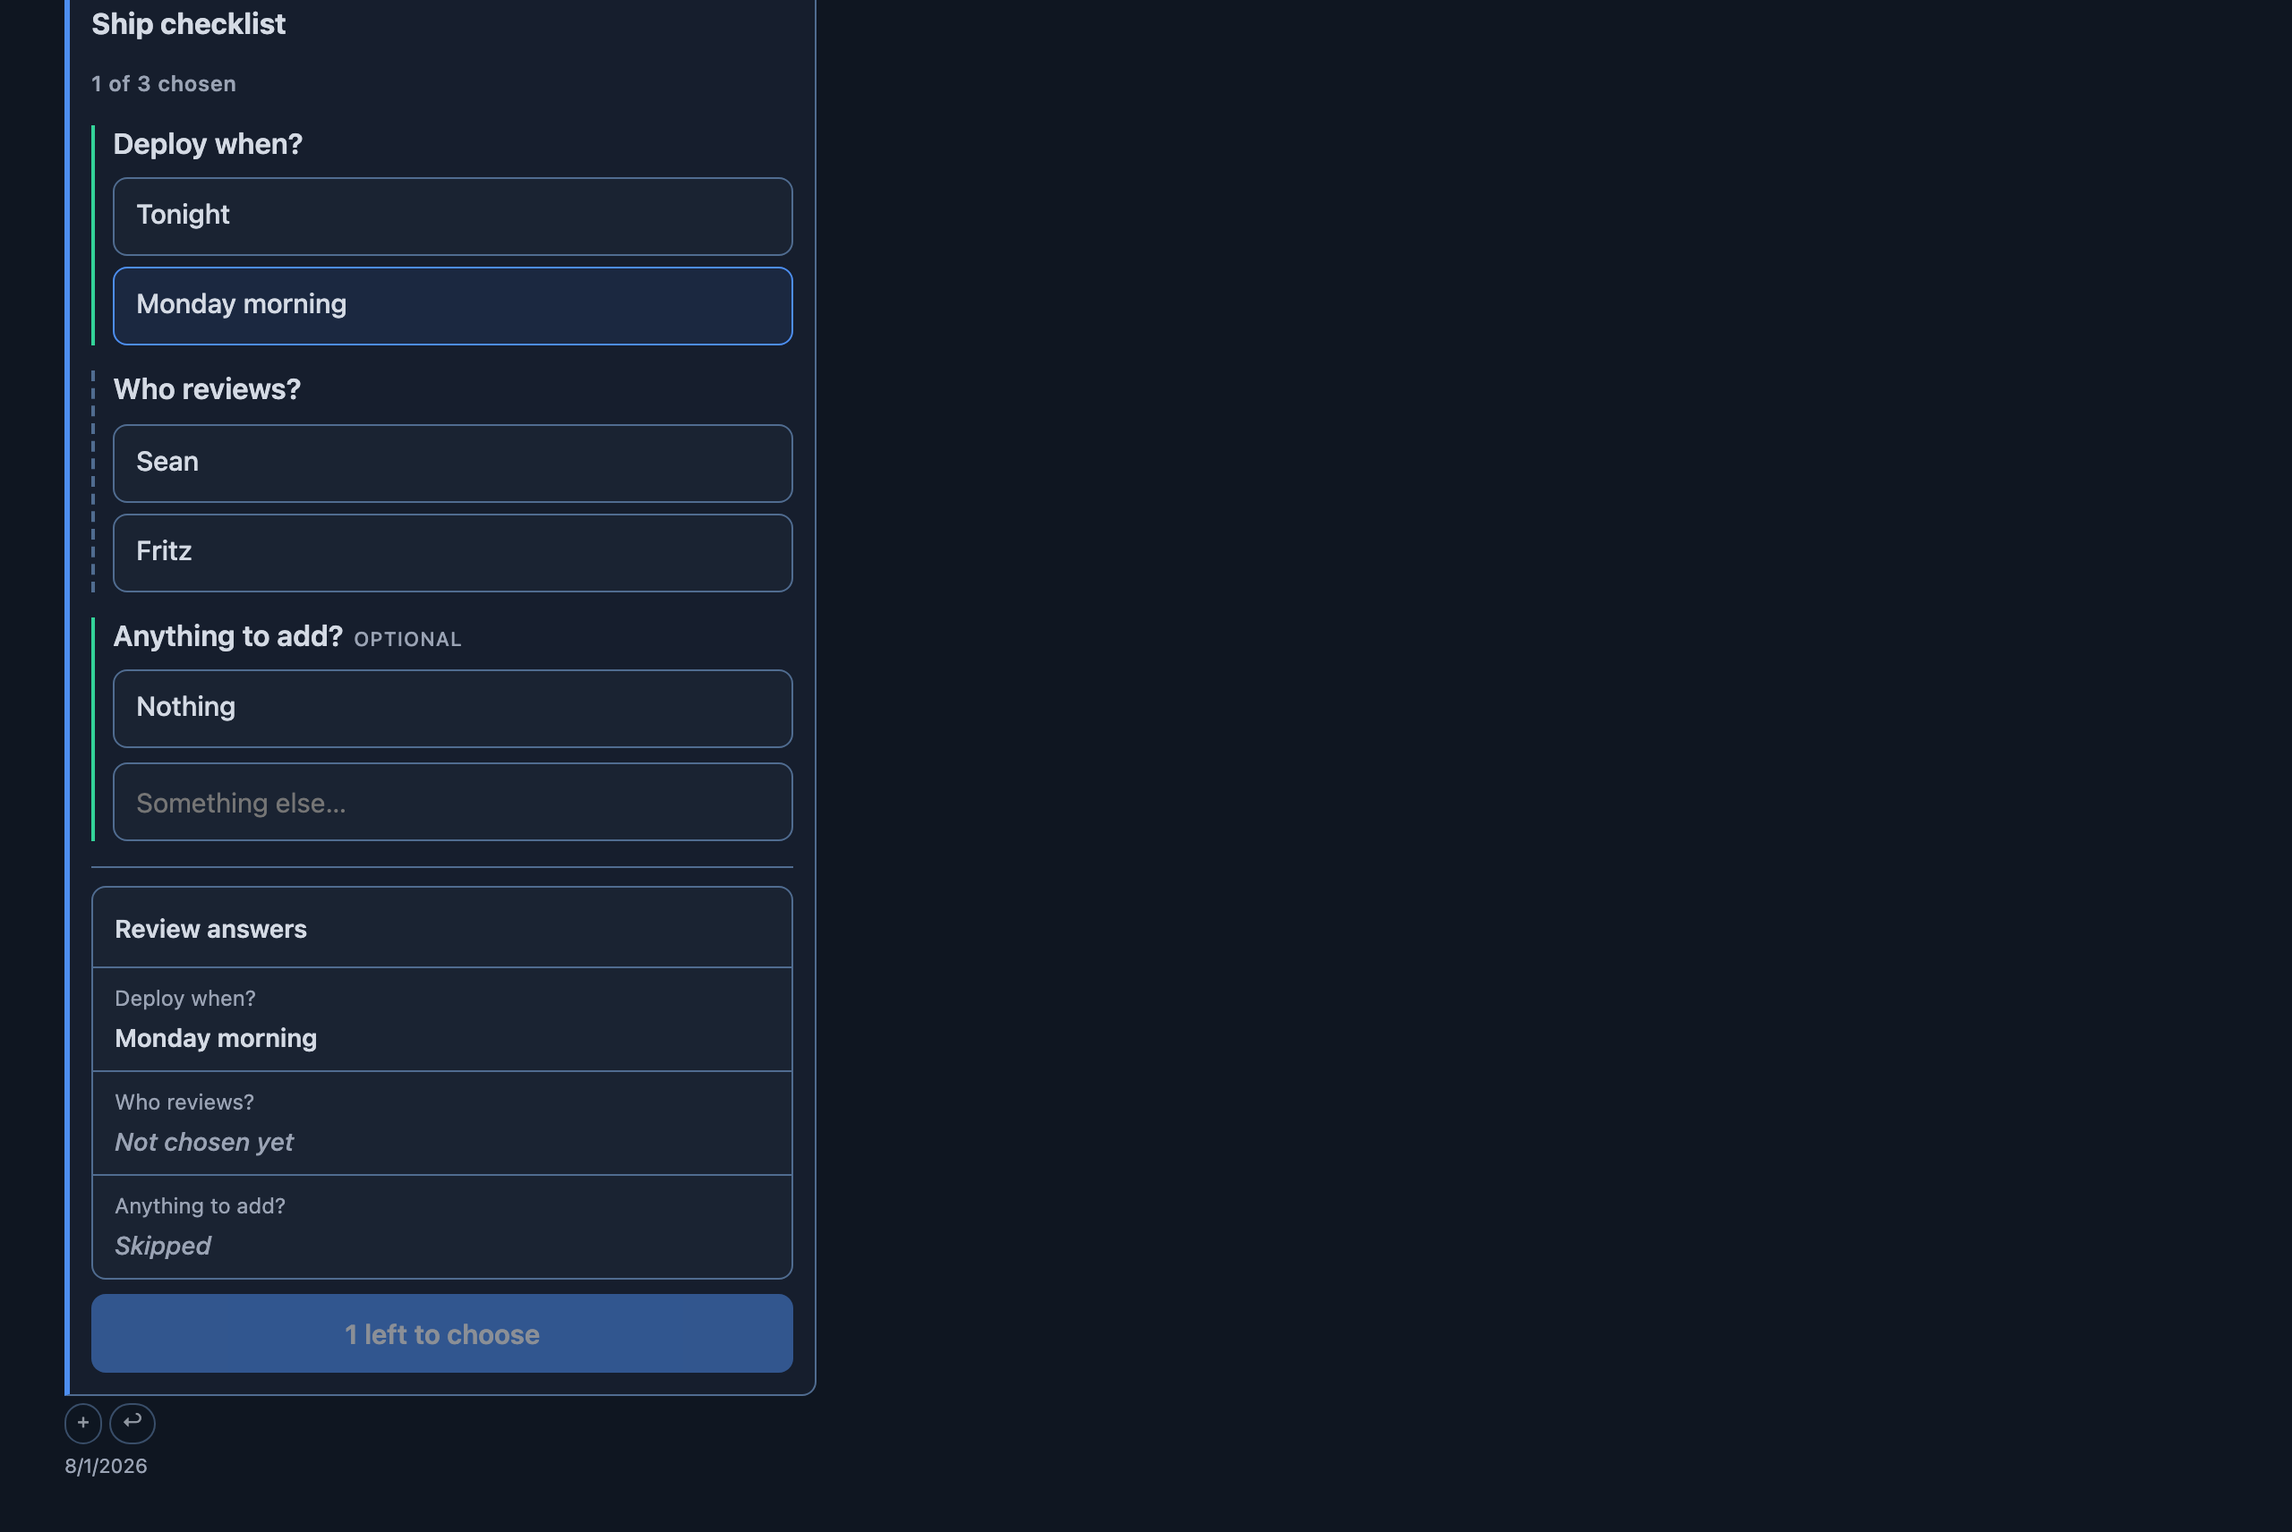
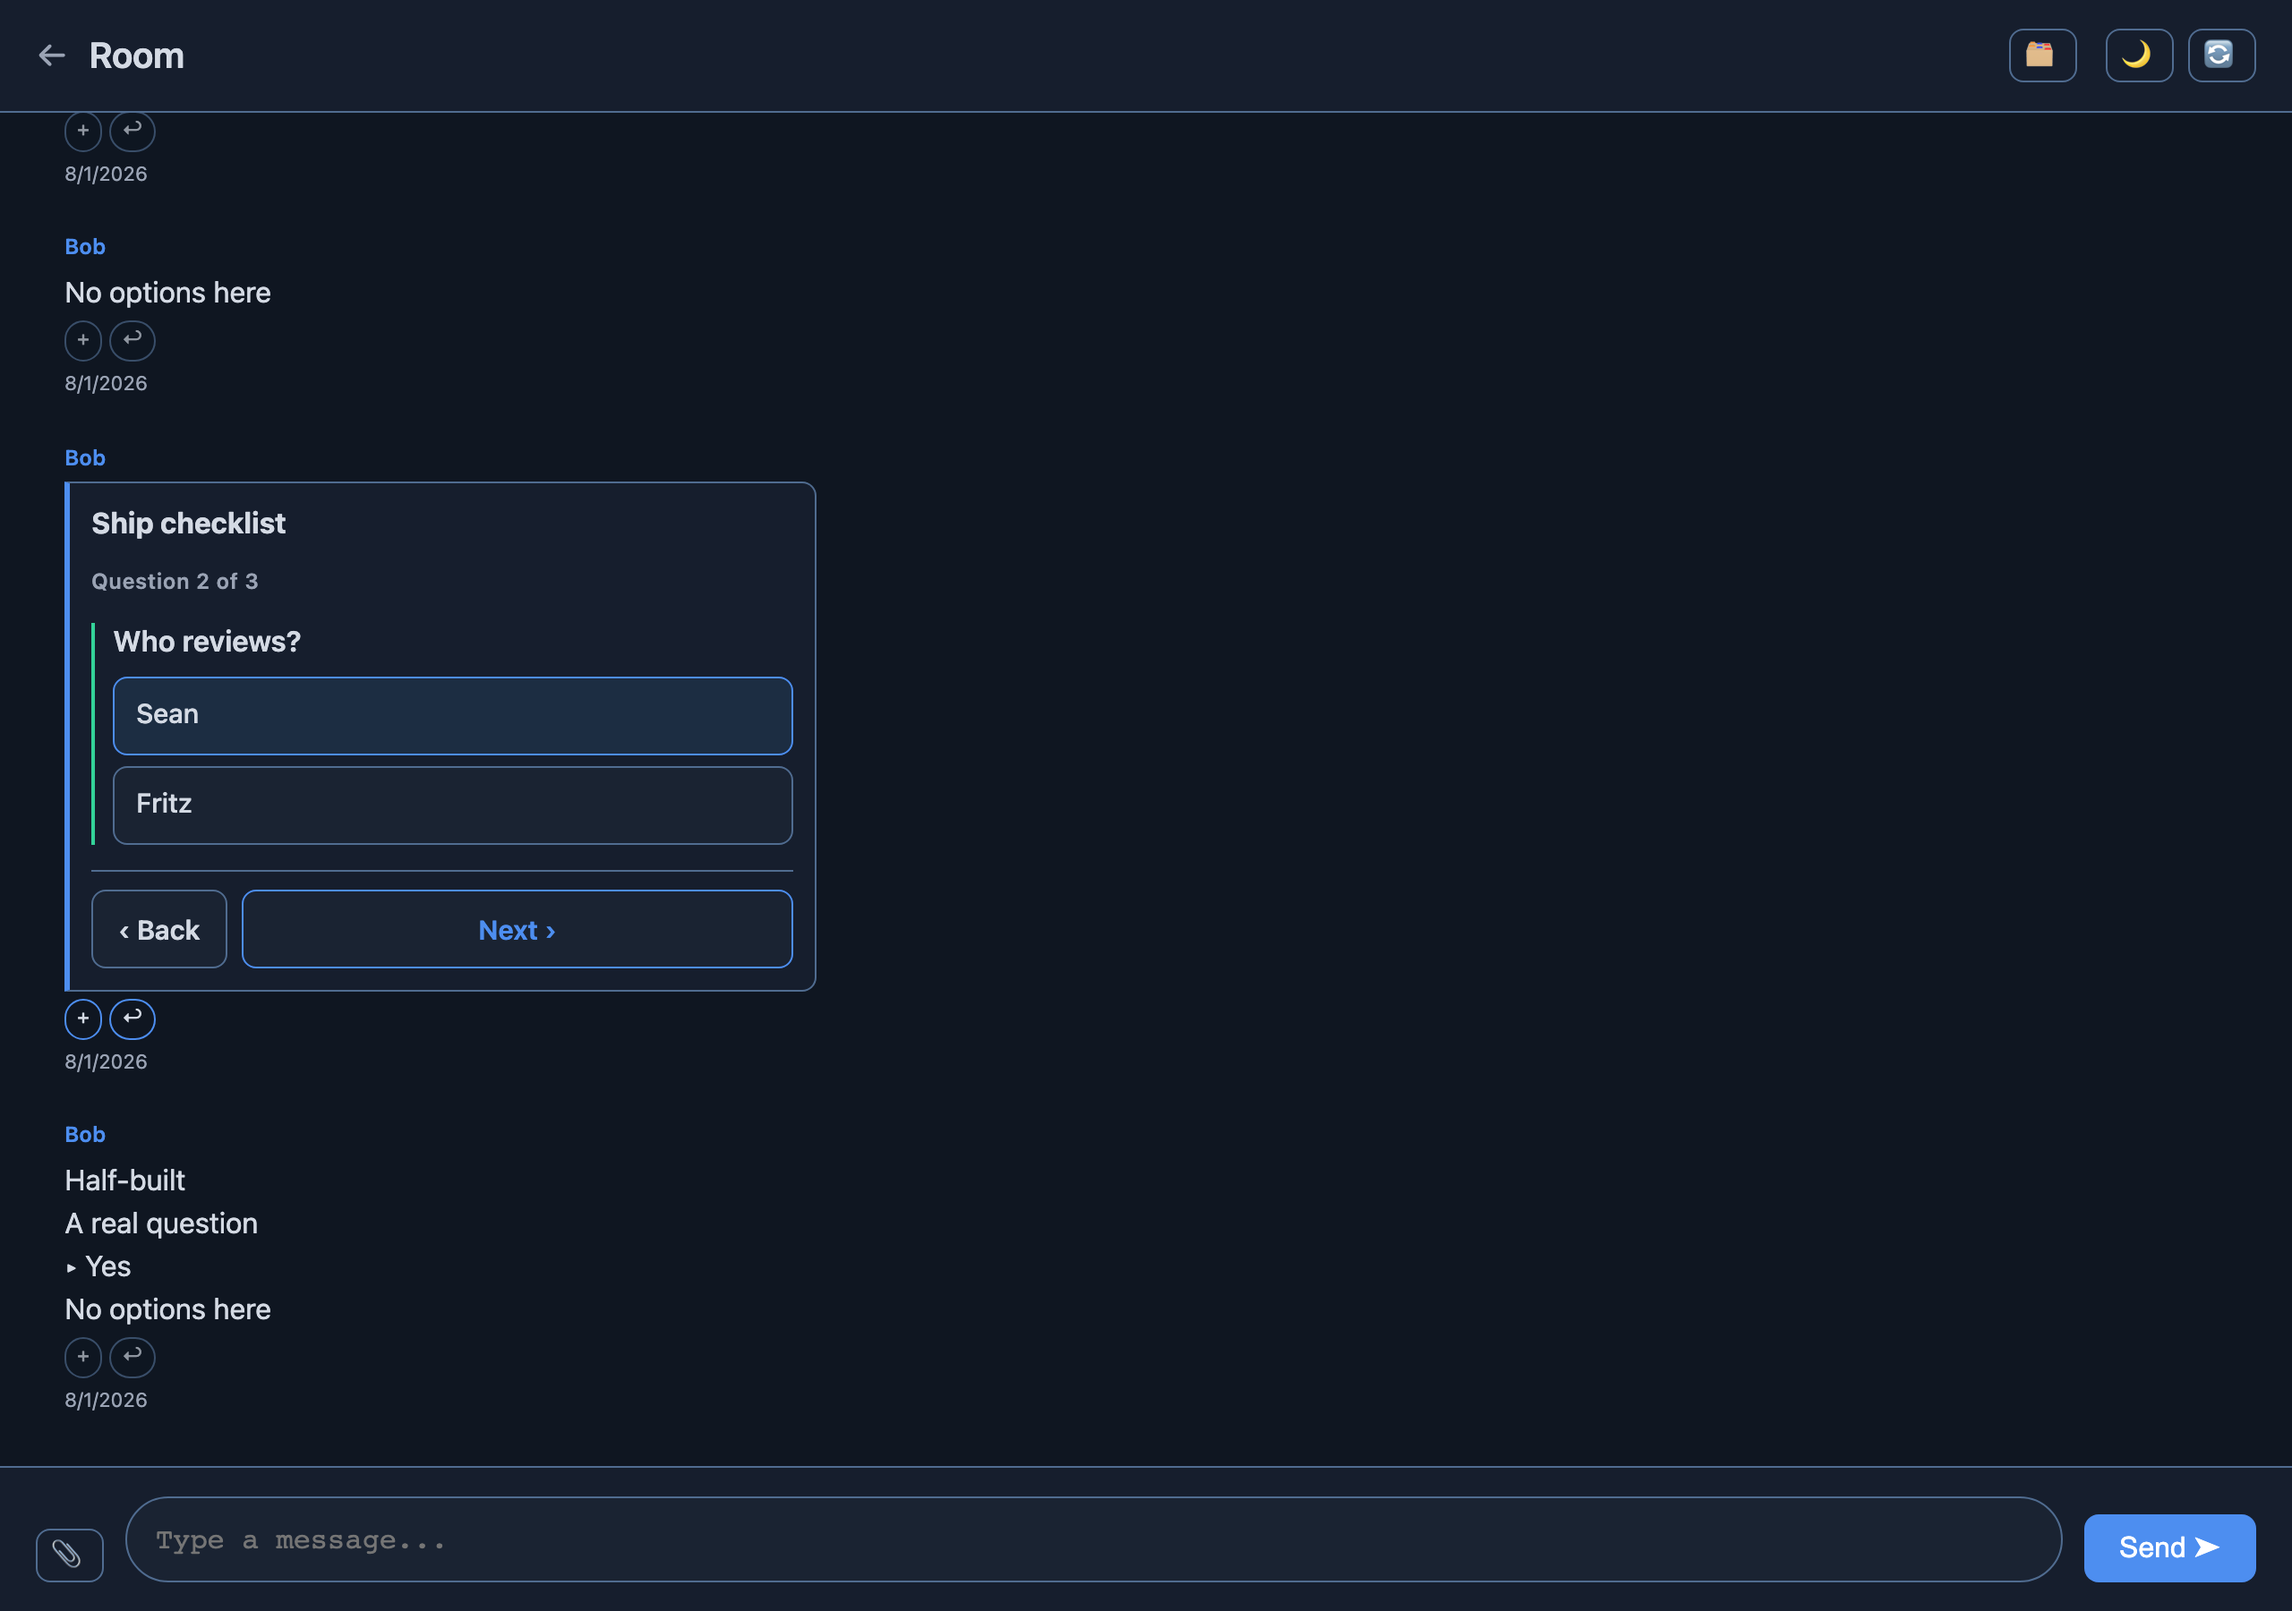
docs(questions): describe the wizard form and regenerate its screenshots

diff --git a/docs/QUESTIONS.md b/docs/QUESTIONS.md
@@ -199,21 +199,31 @@ change.
 
 ### A form
 
+- A form is answered **one question at a time**. The card shows the question
+  at the current step, *"Question 2 of 3"* above it, and **‹ Back** /
+  **Next ›** at its foot — full-width targets in a thumb's reach on a phone.
 - Every tap **stages**; nothing posts until Submit. A single-select question
   behaves as a radio group, a `multi` question toggles, and a free-text input
   stages as you type.
 - Staged answers are persisted in `localStorage` under `ddq:<mid>:<qid>`, so a
+  question you navigate back to shows the choice already made, and a
   half-filled form survives a reload, an app switch, or a locked phone. They
-  are cleared when the submit is accepted.
-- The card carries an answered count (*"2 of 3 chosen"*) and marks required
-  questions that are still open with a dashed rule.
-- **Review answers** expands an inline summary of each prompt and the choice
-  it would post. Submit sits below it, enabled only once every required
-  question has an answer, and labelled *"N left to choose"* until then.
-- Submit posts **one** reply and disables on the accepted tap.
-- A submitted form locks the same way a single question does: chosen options
-  outlined, the rest dimmed, each answer echoed under its question, and every
-  answerer named. Another member's submission does not lock it for you.
+  are cleared when the submit is accepted. The **step** is page state: a
+  reload returns to the first question with every answer intact.
+- **Next is never gated.** A question can be paged past and answered on the
+  way back; the only gate is Submit. A required question with nothing chosen
+  carries a dashed rule.
+- The step after the last question is the **review**: every prompt and the
+  answer it would post, with *"Review · 2 of 3 chosen"* above. Each line is a
+  button that jumps back to its question, which is the one way to move
+  through the stack without the arrows.
+- Submit replaces Next on the review step, enabled only once every required
+  question has an answer and labelled *"N left to choose"* until then. It
+  posts **one** reply and disables on the accepted tap.
+- A submitted form is a read-back, not something to navigate: every question
+  renders flat with the choice made under it, chosen options outlined and the
+  rest dimmed, every answerer named. Another member's submission does not
+  lock it for you.
 
 Question bodies are agent-authored, so every payload-derived string is set
 via `textContent` on an element built in JS. No payload field is interpolated
@@ -226,7 +236,7 @@ into HTML.
 | File | Covers |
 |---|---|
 | `tests/test_question_messages.py` (9) | The API stores both payload shapes verbatim; answers survive `exclude_reactions`; several members can answer; a form's single reply parses as N answers under the documented grammar. |
-| `tests/test_question_playwright.py` (33) | Rendering, 44px targets, tap→reply body, double-tap, derived answered state, multi, free text, escaping; form staging, `localStorage` persistence across a reload, required-gating, review contents, the exact single-submit body, and the locked form. |
+| `tests/test_question_playwright.py` (41) | Rendering, tap→reply body, double-tap, derived answered state, multi, free text, escaping; form staging, `localStorage` persistence across navigation and a reload, wizard nav (step order, first-step Back, ungated Next, review reachability, jump-back lines), required-gating, review contents, the exact single-submit body, and the flat answered form. Touch targets are **measured**: every `button` and `input` in a form card is asserted ≥ 44×44px on every step, portrait and landscape. |
 
 ---
 
@@ -241,9 +251,9 @@ Each shows an answered single-select card (chosen option outlined, the other
 dimmed, answerer named), a multi-select card with its send button, and an
 unanswered card with the free-text row.
 
-A form, staged, with its review pane open. Desktop shows the gated state —
-one required question still open, a dashed rule beside it, *"1 left to
-choose"* on a disabled Submit. Mobile shows the same form complete.
+A form mid-stack. Desktop shows a question step — *"Question 2 of 3"*, one
+option staged, Back and Next live. Mobile shows the review step with every
+answer staged and Submit enabled.
 
 | | Light | Dark |
 |---|---|---|
